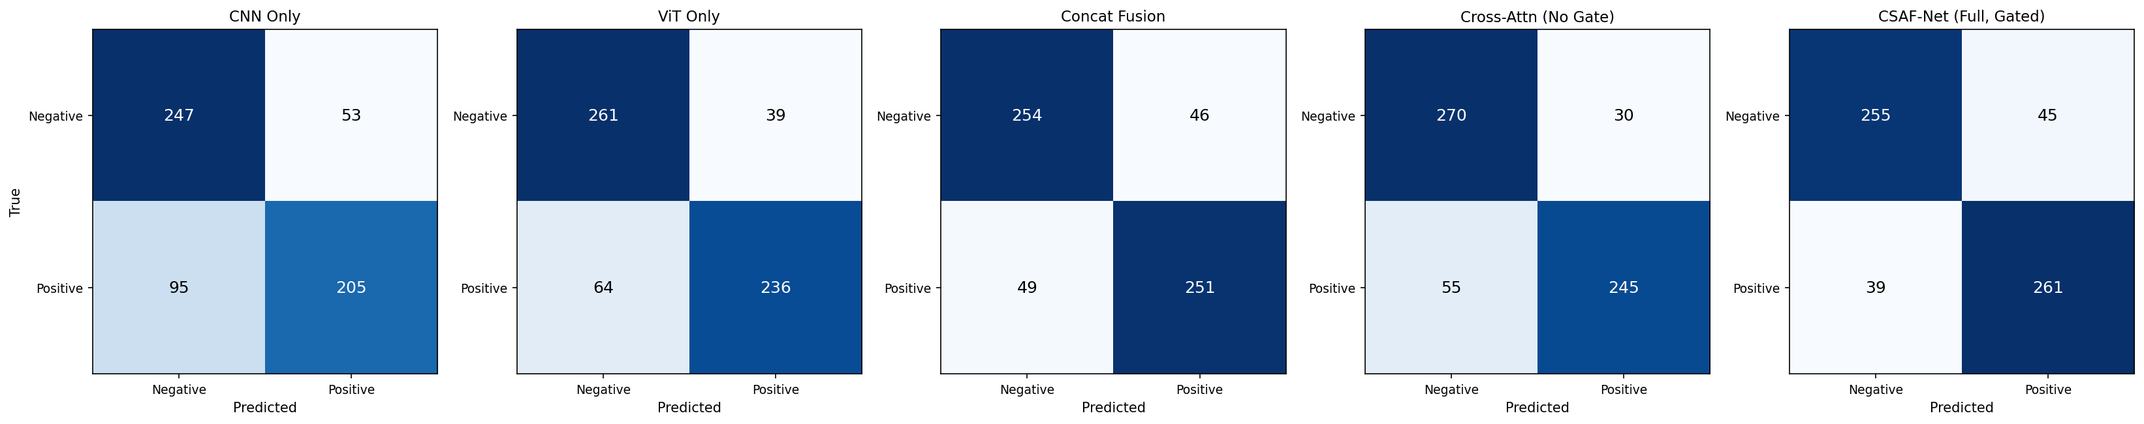
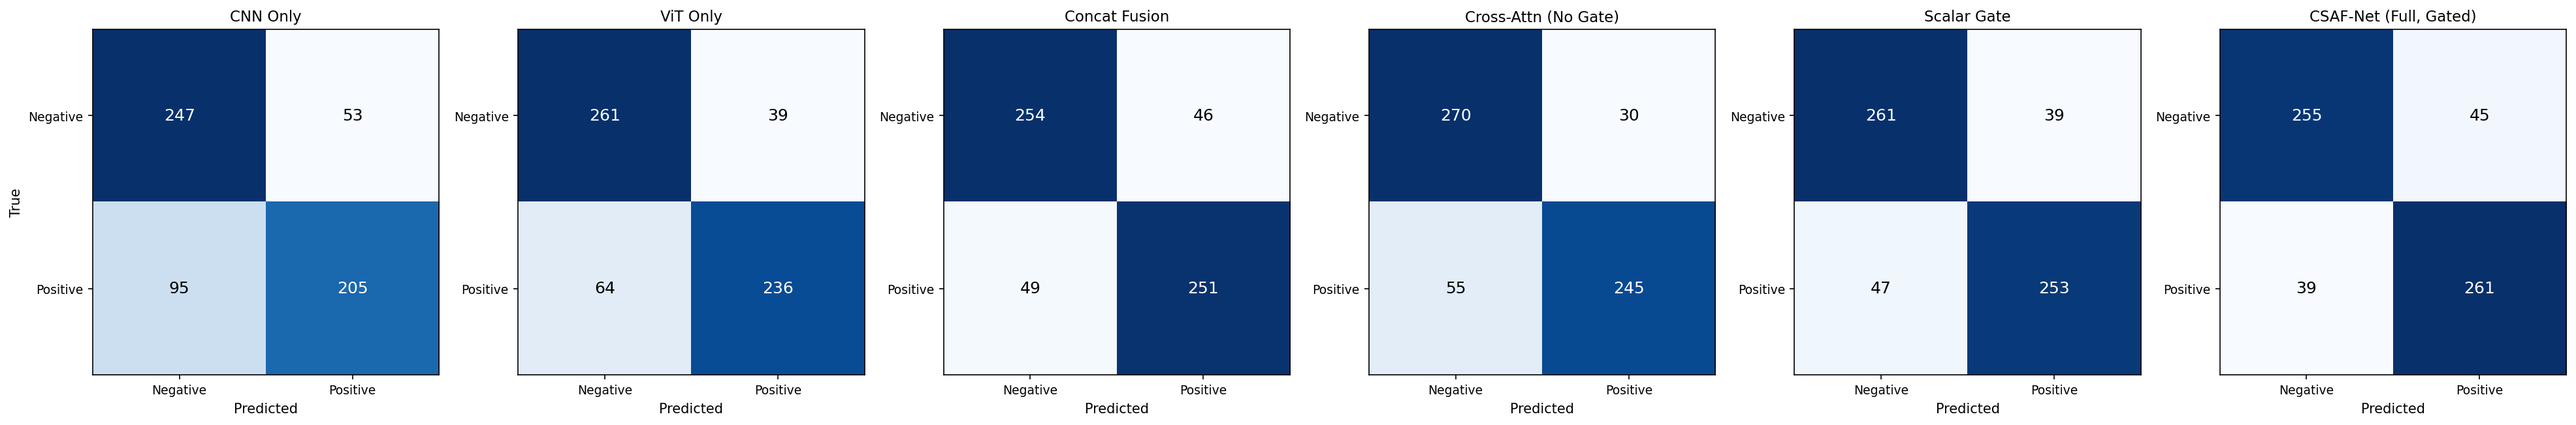
Add scalar gate ablation variant: module, training, evaluation, and app integration

diff --git a/csaf_net.py b/csaf_net.py
@@ -4,8 +4,9 @@ Full CSAF-Net model: DenseNet-121 + ViT backbones -> Gated Cross-Attention
 Fusion -> classification head.
 
 Also defines lightweight wrapper models for your ablation study
-(CNN-only, ViT-only, concat, ungated cross-attention) so every variant
-shares the same backbones and head -- only the fusion strategy changes.
+(CNN-only, ViT-only, concat, ungated cross-attention, scalar-gated
+cross-attention) so every variant shares the same backbones and head --
+only the fusion strategy changes.
 
 Usage:
     from csaf_net import build_model, get_device
@@ -23,6 +24,7 @@ from csaf_module import (
     GatedCrossAttentionFusion,
     ConcatFusion,
     UngatedCrossAttentionFusion,
+    ScalarGatedCrossAttentionFusion,
 )
 
 
@@ -47,6 +49,7 @@ class ClassificationHead(nn.Module):
 class CSAFNet(nn.Module):
     """
     Full CSAF-Net: dual backbone + gated cross-scale attention fusion + head.
+
     variant controls which fusion module is used, so this one class serves
     every ablation entry except the single-backbone baselines.
     """
@@ -55,6 +58,7 @@ class CSAFNet(nn.Module):
         "full_csaf": GatedCrossAttentionFusion,
         "concat": ConcatFusion,
         "ungated_cross_attn": UngatedCrossAttentionFusion,
+        "scalar_gate": ScalarGatedCrossAttentionFusion,
     }
 
     def __init__(self, variant="full_csaf", dim=PROJ_DIM, num_heads=8,
@@ -77,9 +81,8 @@ class CSAFNet(nn.Module):
     def forward(self, images):
         cnn_tokens = self.cnn_backbone(images)   # (B, N_cnn, dim)
         vit_tokens = self.vit_backbone(images)   # (B, N_vit, dim)
-
-        fused, gate = self.fusion(cnn_tokens, vit_tokens)  # (B, N, dim), gate or None
-        logits = self.head(fused)                           # (B,)
+        fused, gate = self.fusion(cnn_tokens, vit_tokens)   # (B, N, dim), gate or None
+        logits = self.head(fused)   # (B,)
         return logits, gate
 
 
@@ -102,8 +105,8 @@ class SingleBackboneNet(nn.Module):
         self.head = ClassificationHead(dim=dim)
 
     def forward(self, images):
-        tokens = self.backbone(images)          # (B, N, dim)
-        logits = self.head(tokens)               # (B,)
+        tokens = self.backbone(images)   # (B, N, dim)
+        logits = self.head(tokens)   # (B,)
         return logits, None
 
 
@@ -112,10 +115,11 @@ def build_model(variant="full_csaf", **kwargs):
     Factory function used by train.py / run_ablations.py.
 
     variant options:
-        "cnn_only"           -> DenseNet-121 + head
-        "vit_only"           -> ViT + head
+        "cnn_only"            -> DenseNet-121 + head
+        "vit_only"            -> ViT + head
         "concat"              -> ConcatFusion ablation
-        "ungated_cross_attn" -> UngatedCrossAttentionFusion ablation
+        "ungated_cross_attn"  -> UngatedCrossAttentionFusion ablation
+        "scalar_gate"         -> ScalarGatedCrossAttentionFusion ablation
         "full_csaf"           -> full CSAF-Net (your novelty)
     """
     if variant == "cnn_only":
@@ -134,7 +138,7 @@ if __name__ == "__main__":
 
     dummy = torch.randn(2, 3, 224, 224).to(device)
 
-    for variant in ["cnn_only", "vit_only", "concat", "ungated_cross_attn", "full_csaf"]:
+    for variant in ["cnn_only", "vit_only", "concat", "ungated_cross_attn", "scalar_gate", "full_csaf"]:
         print(f"Testing variant: {variant}")
         model = build_model(variant=variant).to(device)
         model.eval()

diff --git a/csaf_module.py b/csaf_module.py
@@ -8,9 +8,9 @@ This is the novelty of CSAF-Net:
 2. A learned gate, conditioned on BOTH attended outputs, decides per-token
    how much to trust the CNN-attended branch vs the ViT-attended branch.
 
-Also included: simpler fusion variants (concat, add, no-gate cross-attention)
-used for your ablation study, so all variants live in one place and share
-the same interface.
+Also included: simpler fusion variants (concat, add, no-gate cross-attention,
+scalar-gated cross-attention) used for your ablation study, so all variants
+live in one place and share the same interface.
 
 Usage:
     from csaf_module import GatedCrossAttentionFusion
@@ -151,6 +151,49 @@ class UngatedCrossAttentionFusion(nn.Module):
         return fused, None
 
 
+class ScalarGatedCrossAttentionFusion(nn.Module):
+    """
+    Ablation: same bidirectional cross-attention as the full CSAF module,
+    but the gate is a single learned scalar shared across all tokens and
+    channels, not conditioned on the input. This isolates whether the
+    gate's benefit comes from being *adaptive* per input (the full CSAF
+    claim), or simply from having *some* learned mixing weight at all.
+    """
+
+    def __init__(self, dim=256, num_heads=8, dropout=0.1):
+        super().__init__()
+        self.cross_attn_c2v = nn.MultiheadAttention(
+            dim, num_heads, batch_first=True, dropout=dropout
+        )
+        self.cross_attn_v2c = nn.MultiheadAttention(
+            dim, num_heads, batch_first=True, dropout=dropout
+        )
+        self.norm_c2v = nn.LayerNorm(dim)
+        self.norm_v2c = nn.LayerNorm(dim)
+
+        # Single learnable scalar, initialized at 0 -> sigmoid(0) = 0.5
+        self.gate_param = nn.Parameter(torch.tensor(0.0))
+
+    def forward(self, cnn_tokens, vit_tokens):
+        attn_c2v, _ = self.cross_attn_c2v(cnn_tokens, vit_tokens, vit_tokens)
+        attn_c2v = self.norm_c2v(attn_c2v + cnn_tokens)
+
+        attn_v2c, _ = self.cross_attn_v2c(vit_tokens, cnn_tokens, cnn_tokens)
+        attn_v2c = self.norm_v2c(attn_v2c + vit_tokens)
+
+        attn_v2c_aligned = GatedCrossAttentionFusion._align_tokens(
+            attn_v2c, target_len=attn_c2v.shape[1]
+        )
+
+        gate = torch.sigmoid(self.gate_param)  # scalar in (0, 1)
+        fused = gate * attn_c2v + (1 - gate) * attn_v2c_aligned
+
+        # Broadcast to match the full CSAF gate's shape so downstream
+        # code (visualize_gate.py) doesn't need special-casing.
+        gate_map = gate.expand_as(attn_c2v)
+        return fused, gate_map
+
+
 if __name__ == "__main__":
     # smoke test with realistic shapes from backbones.py
     B, N_cnn, N_vit, dim = 2, 49, 196, 256
@@ -173,5 +216,11 @@ if __name__ == "__main__":
     ungated = UngatedCrossAttentionFusion(dim=dim)
     fused_u, _ = ungated(cnn_tokens, vit_tokens)
     print(f"  fused shape: {fused_u.shape}")   # (2, 49, 256)
+
+    print("\nTesting ScalarGatedCrossAttentionFusion (ablation)...")
+    scalar_gated = ScalarGatedCrossAttentionFusion(dim=dim)
+    fused_s, gate_s = scalar_gated(cnn_tokens, vit_tokens)
+    print(f"  fused shape: {fused_s.shape}")   # (2, 49, 256)
+    print(f"  gate value: {torch.sigmoid(scalar_gated.gate_param).item():.3f}")
 
     print("\nAll fusion variants ran successfully.")

diff --git a/evaluate.py b/evaluate.py
@@ -1,14 +1,14 @@
 """
 evaluate.py
 Generates paper-ready figures:
-  1. Confusion matrices for all 5 trained variants (grid comparison)
+  1. Confusion matrices for all trained variants (grid comparison)
   2. Bar chart comparing accuracy/F1 across variants (the ablation table, visualized)
   3. Gate map visualization for full_csaf -- shows which images/regions the
      gate weights toward CNN (local) vs ViT (global) features
   4. Training curves (accuracy + loss over epochs) for full_csaf
   5. Trainable parameter count comparison across all variants
   6. Sample predictions grid -- correct AND incorrect, with confidence scores
-  7. ROC curves + AUC for all 5 variants (overlaid on one axis)
+  7. ROC curves + AUC for all variants (overlaid on one axis)
 
 Usage:
     python evaluate.py
@@ -46,12 +46,13 @@ IMAGE_SIZE = 224
 IMAGENET_MEAN = [0.485, 0.456, 0.406]
 IMAGENET_STD = [0.229, 0.224, 0.225]
 
-VARIANTS = ["cnn_only", "vit_only", "concat", "ungated_cross_attn", "full_csaf"]
+VARIANTS = ["cnn_only", "vit_only", "concat", "ungated_cross_attn", "scalar_gate", "full_csaf"]
 VARIANT_LABELS = {
     "cnn_only": "CNN Only",
     "vit_only": "ViT Only",
     "concat": "Concat Fusion",
     "ungated_cross_attn": "Cross-Attn (No Gate)",
+    "scalar_gate": "Scalar Gate",
     "full_csaf": "CSAF-Net (Full, Gated)",
 }
 
@@ -97,7 +98,7 @@ def plot_confusion_matrices(device, data_dir="dataset", checkpoint_dir="checkpoi
     class_names = test_ds.classes   # ['Negative', 'Positive']
     print(f"  Test set size: {len(test_ds)} images, batch_size={loader.batch_size}")
 
-    fig, axes = plt.subplots(1, 5, figsize=(22, 4.5))
+    fig, axes = plt.subplots(1, len(VARIANTS), figsize=(4.4 * len(VARIANTS), 4.5))
 
     for ax, variant in zip(axes, VARIANTS):
         ckpt_path = os.path.join(checkpoint_dir, f"{variant}_best.pth")
@@ -330,7 +331,7 @@ def plot_training_curves(variant="full_csaf", log_dir="logs",
 
 def plot_parameter_comparison(out_path="figures/parameter_comparison.png"):
     """
-    Bar chart of trainable parameter counts across all 5 variants.
+    Bar chart of trainable parameter counts across all variants.
     Backbones are frozen by default (see backbones.py), so this mostly
     reflects the size of each fusion module + classification head --
     useful for showing CSAF-Net's gate adds negligible parameters for
@@ -457,7 +458,7 @@ def plot_sample_predictions(device, data_dir="dataset", checkpoint_dir="checkpoi
 def plot_roc_curves(device, data_dir="dataset", checkpoint_dir="checkpoints",
                      out_path="figures/roc_curves.png"):
     """
-    ROC curve + AUC for all 5 variants, overlaid on one axis.
+    ROC curve + AUC for all variants, overlaid on one axis.
     A more threshold-independent view of separability than the confusion
     matrix / accuracy-at-0.5 alone.
     """

diff --git a/app.py b/app.py
@@ -56,9 +56,10 @@ VARIANT_LABELS = {
     "vit_only": "ViT Only",
     "concat": "Concat Fusion",
     "ungated_cross_attn": "Cross-Attn (No Gate)",
+    "scalar_gate": "Scalar Gate",
     "full_csaf": "CSAF-Net (Full, Gated)",
 }
-VARIANT_ORDER = ["cnn_only", "vit_only", "concat", "ungated_cross_attn", "full_csaf"]
+VARIANT_ORDER = ["cnn_only", "vit_only", "concat", "ungated_cross_attn", "scalar_gate", "full_csaf"]
 
 
 # ---------------------------------------------------------------------------
@@ -322,4 +323,18 @@ with tab3:
                 f"**{gate_gain_f1:+.2f} points** and recall by **{gate_gain_recall:+.2f} points** "
                 f"compared to ungated cross-attention fusion — isolating the exact contribution of "
                 f"CSAF-Net's novelty."
+            )
+
+        if "scalar_gate" in available and "full_csaf" in available and "ungated_cross_attn" in available:
+            scalar_vs_ungated_f1 = (logs["scalar_gate"]["test"]["f1"] - logs["ungated_cross_attn"]["test"]["f1"]) * 100
+            full_vs_scalar_f1 = (logs["full_csaf"]["test"]["f1"] - logs["scalar_gate"]["test"]["f1"]) * 100
+            st.subheader("🔑 Key Finding: Why an Adaptive (Per-Token) Gate?")
+            st.write(
+                f"A single, input-independent scalar gate already improves F1 by "
+                f"**{scalar_vs_ungated_f1:+.2f} points** over no gate at all, confirming that "
+                f"*having* a learned mixing weight helps. But making that gate **adaptive per "
+                f"input token** (CSAF-Net's actual design) adds a further "
+                f"**{full_vs_scalar_f1:+.2f} points** of F1 on top of the scalar gate — showing "
+                f"the benefit comes specifically from the gate's input-conditioned flexibility, "
+                f"not merely its presence."
             )

diff --git a/train.py b/train.py
@@ -9,6 +9,7 @@ Usage:
     python train.py --variant vit_only --epochs 5
     python train.py --variant concat --epochs 5
     python train.py --variant ungated_cross_attn --epochs 5
+    python train.py --variant scalar_gate --epochs 5
 
 Expects dataset/ folder from prepare_dataset.py:
     dataset/train/Positive, dataset/train/Negative
@@ -167,7 +168,8 @@ def train_model(variant, epochs=5, batch_size=8, lr=1e-4, data_dir="dataset",
 if __name__ == "__main__":
     parser = argparse.ArgumentParser()
     parser.add_argument("--variant", type=str, default="full_csaf",
-                         choices=["cnn_only", "vit_only", "concat", "ungated_cross_attn", "full_csaf"])
+                         choices=["cnn_only", "vit_only", "concat", "ungated_cross_attn",
+                                  "scalar_gate", "full_csaf"])
     parser.add_argument("--epochs", type=int, default=5)
     parser.add_argument("--batch_size", type=int, default=8)
     parser.add_argument("--lr", type=float, default=1e-4)
